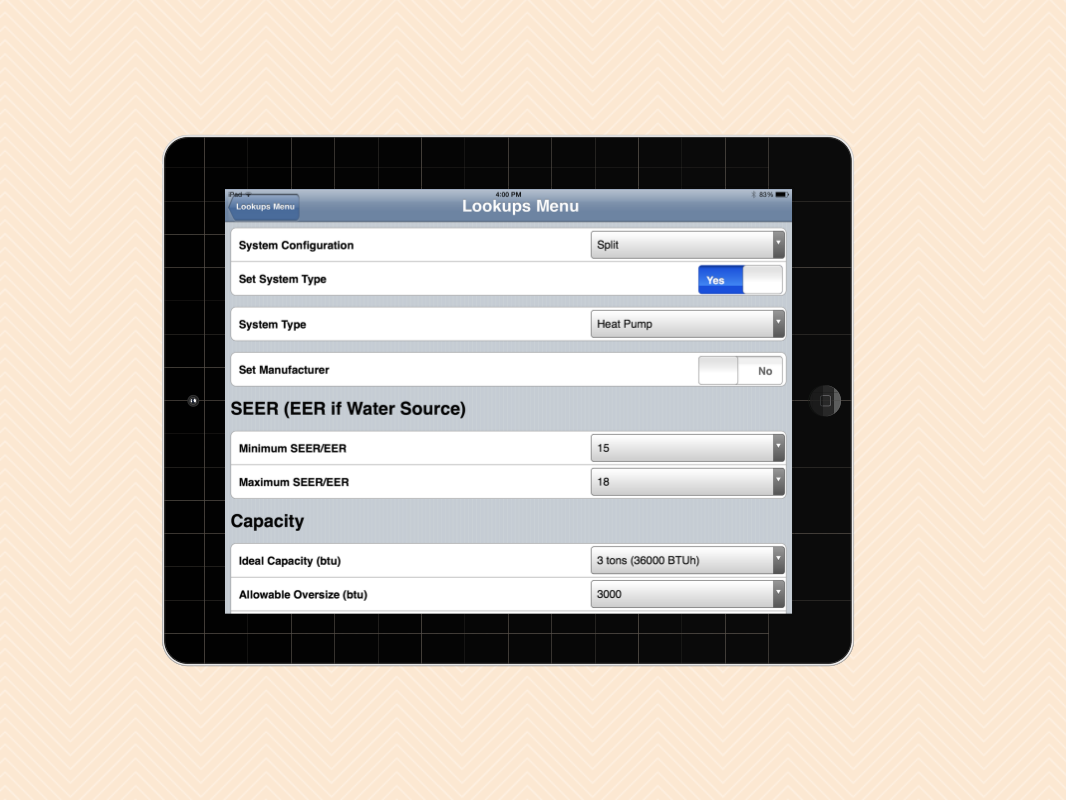
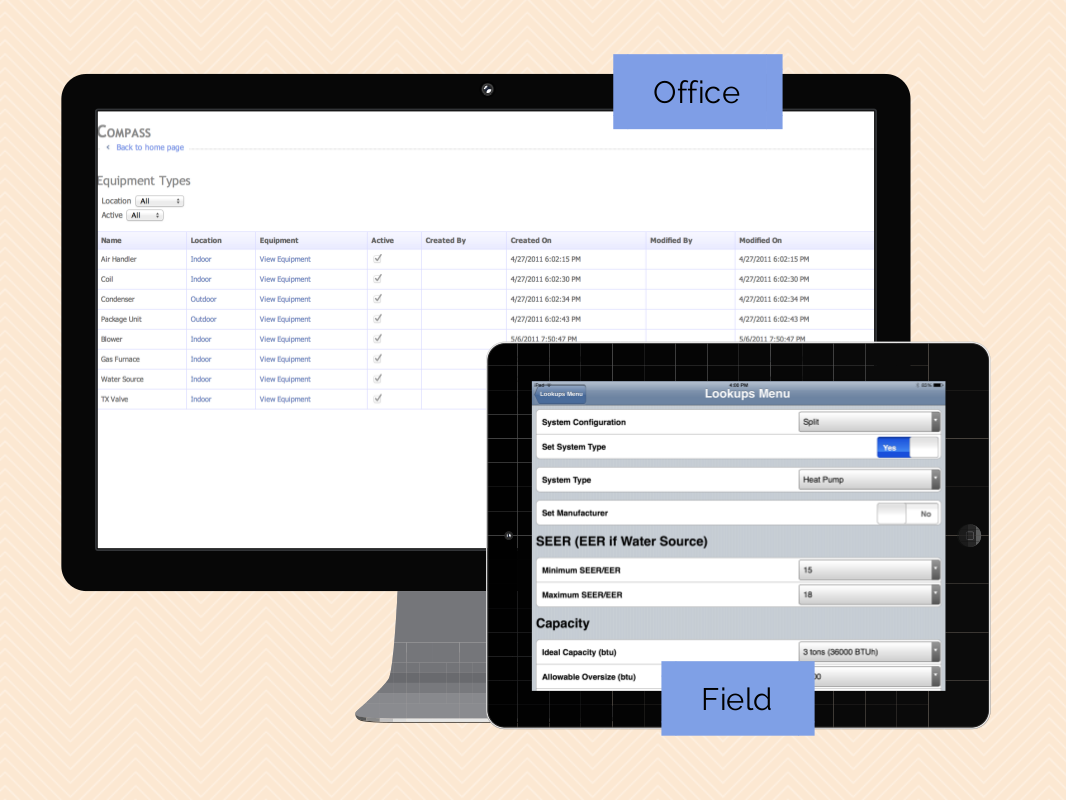
changed compass picture, contact form UI

diff --git a/templates/modern-business/contact.html b/templates/modern-business/contact.html
@@ -77,16 +77,7 @@
       <div class="row">
       
         <div class="col-lg-12">
-          <h1 class="page-header">Contact <small>We'd Love to Hear From You!</small></h1>
-          <ol class="breadcrumb">
-            <li><a href="index.html">Home</a></li>
-            <li class="active">Contact</li>
-          </ol>
-        </div>
-        
-        <div class="col-lg-12">
-          <!-- Embedded Google Map using an iframe - to select your location find it on Google maps and paste the link as the iframe src. If you want to use the Google Maps API instead then have at it! -->
-          <iframe width="100%" height="400px" frameborder="0" scrolling="no" marginheight="0" marginwidth="0" src="http://maps.google.com/maps?hl=en&amp;ie=UTF8&amp;ll=37.0625,-95.677068&amp;spn=56.506174,79.013672&amp;t=m&amp;z=4&amp;output=embed"></iframe>
+          <h1 class="page-header">Contact</h1>
         </div>
 
       </div><!-- /.row -->
@@ -94,17 +85,6 @@
       <div class="row">
 
         <div class="col-sm-8">
-          <h3>Let's Get In Touch!</h3>
-          <p>Lid est laborum dolo rumes fugats untras. Etharums ser quidem rerum facilis dolores nemis omnis fugats vitaes nemo minima rerums unsers sadips amets. Sed ut perspiciatis unde omnis iste natus error sit voluptatem accusantium doloremque laudantium, totam rem aperiam, eaque ipsa quae ab illo inventore veritatis et quasi architecto beatae vitae dicta sunt explicabo.</p>
-			<?php  
-
-                // check for a successful form post  
-                if (isset($_GET['s'])) echo "<div class=\"alert alert-success\">".$_GET['s']."</div>";  
-          
-                // check for a form error  
-                elseif (isset($_GET['e'])) echo "<div class=\"alert alert-danger\">".$_GET['e']."</div>";  
-
-			?>
             <form role="form" method="POST" action="contact-form-submission.php">
 	            <div class="row">
 	              <div class="form-group col-lg-4">
@@ -122,7 +102,7 @@
 	              <div class="clearfix"></div>
 	              <div class="form-group col-lg-12">
 	                <label for="input4">Message</label>
-	                <textarea name="contact_message" class="form-control" rows="6" id="input4"></textarea>
+	                <textarea name="contact_message" class="form-control" rows="6" id="input4" placeholder="Hi, I'm interested in hearing more about <...>. Please give me a call. Thanks."></textarea>
 	              </div>
 	              <div class="form-group col-lg-12">
 	                <input type="hidden" name="save" value="contact">
@@ -133,7 +113,7 @@
         </div>
 
         <div class="col-sm-4">
-          <h3>Modern Business</h3>
+          <h3>Blackcomb Software, LLC</h3>
           <h4>A Start Bootstrap Template</h4>
           <p>
             5555 44th Street N.<br>
@@ -142,12 +122,6 @@
           <p><i class="fa fa-phone"></i> <abbr title="Phone">P</abbr>: (555) 984-3600</p>
           <p><i class="fa fa-envelope-o"></i> <abbr title="Email">E</abbr>: <a href="mailto:feedback@startbootstrap.com">feedback@startbootstrap.com</a></p>
           <p><i class="fa fa-clock-o"></i> <abbr title="Hours">H</abbr>: Monday - Friday: 9:00 AM to 5:00 PM</p>
-          <ul class="list-unstyled list-inline list-social-icons">
-            <li class="tooltip-social facebook-link"><a href="#facebook-page" data-toggle="tooltip" data-placement="top" title="Facebook"><i class="fa fa-facebook-square fa-2x"></i></a></li>
-            <li class="tooltip-social linkedin-link"><a href="#linkedin-company-page" data-toggle="tooltip" data-placement="top" title="LinkedIn"><i class="fa fa-linkedin-square fa-2x"></i></a></li>
-            <li class="tooltip-social twitter-link"><a href="#twitter-profile" data-toggle="tooltip" data-placement="top" title="Twitter"><i class="fa fa-twitter-square fa-2x"></i></a></li>
-            <li class="tooltip-social google-plus-link"><a href="#google-plus-page" data-toggle="tooltip" data-placement="top" title="Google+"><i class="fa fa-google-plus-square fa-2x"></i></a></li>
-          </ul>
         </div>
 
       </div><!-- /.row -->
@@ -161,7 +135,7 @@
       <footer>
         <div class="row">
           <div class="col-lg-12">
-            <p>Copyright &copy; Company 2013</p>
+            <p>Copyright &copy; 2014 Blackcomb Software, LLC. All rights reserved.</p>
           </div>
         </div>
       </footer>

diff --git a/templates/modern-business/index.html b/templates/modern-business/index.html
@@ -40,7 +40,7 @@
                     <li class="dropdown">
                         <a href="#" class="dropdown-toggle" data-toggle="dropdown">Products <b class="caret"></b></a>
                         <ul class="dropdown-menu">
-                            <li><a href="services.html">Compass</a>
+                            <li><a href="portfolio-item.html">Compass</a>
                             </li>
                         </ul>
                     </li>
@@ -51,7 +51,7 @@
                             </li>
                         </ul>
                     </li>
-                    <li><a href="contact.php">Contact</a>
+                    <li><a href="contact.html">Contact</a>
                     </li>
                 </ul>
             </div>
@@ -75,7 +75,7 @@
                     <h4>Sell smarter and faster.</h4>
                     <h1>
 
-                <a class="btn btn-lg btn-primary" style="background-color:#84BE6A; border-color:#fff;" href="http://startbootstrap.com">Learn More</a>
+                <a class="btn btn-lg btn-primary" style="background-color:#84BE6A; border-color:#fff;" href="portfolio-item.html">Learn More</a>
             </h1>
                 </div>
                     
@@ -94,18 +94,15 @@
             <div class="row">
                 <div class="col-lg-4 col-md-4">
                     <h3><i class="fa fa-money"></i> Save Your Business Money</h3>
-                    <p>The 'Modern Business' website template by <a href="http://startbootstrap.com">Start Bootstrap</a> is built with <a href="http://getbootstrap.com">Bootstrap 3</a>. Make sure you're up to date with latest Bootstrap documentation!</p>
-                    <p>The 'Modern Business' website template by <a href="http://startbootstrap.com">Start Bootstrap</a> is built with <a href="http://getbootstrap.com">Bootstrap 3</a>. Make sure you're up to date with latest Bootstrap documentation!</p>
+                    <p>Reduce administration costs and the error margin associated with HVAC sales and installations with a sophisticated information pipeline.</p>
                 </div>
                 <div class="col-lg-4 col-md-4">
                     <h3><i class="fa fa-pencil"></i> Automatic Price Quoting</h3>
-                    <p>You're ready to go with this pre-built page structure, now all you need to do is add your own custom stylings! You can see some free themes over at <a href="http://bootswatch.com">Bootswatch</a>, or come up with your own using <a href="http://getbootstrap.com/customize/">the Bootstrap customizer</a>!</p>
-                    <p>The 'Modern Business' website template by <a href="http://startbootstrap.com">Start Bootstrap</a> is built with <a href="http://getbootstrap.com">Bootstrap 3</a>. Make sure you're up to date with latest Bootstrap documentation!</p>
+                    <p>Quickly and easily filter systems based on 30+ input options, and choose from the generated Best/Better/Good comparison.</p>
                 </div>
                 <div class="col-lg-4 col-md-4">
                     <h3><i class="fa fa-bar-chart-o"></i> Detailed Sales Reporting</h3>
-                    <p>This template features many common pages that you might see on a business website. Pages include: about, contact, portfolio variations, blog, pricing, FAQ, 404, services, and general multi-purpose pages.</p>
-                    <p>The 'Modern Business' website template by <a href="http://startbootstrap.com">Start Bootstrap</a> is built with <a href="http://getbootstrap.com">Bootstrap 3</a>. Make sure you're up to date with latest Bootstrap documentation!</p>
+                    <p>Track key performance indicators of sales teams in real time with easy-to-use administrative analytics dashboards.</p>
                 </div>
             </div>
             <!-- /.row -->

diff --git a/templates/modern-business/portfolio-item.html b/templates/modern-business/portfolio-item.html
@@ -103,7 +103,7 @@
         <div class="row">
 
             <div class="col-md-8">
-                <img class="img-responsive" src="img/compassFilterIpad.png">
+                <img class="img-responsive" src="img/compassFilterIpadDesktop.png">
             </div>
 
             <div class="col-md-4">
@@ -119,6 +119,10 @@
                     <li>Dynamic Best/Better/Good Option Comparison</li>
                     <li>Intuitive Mobile/Desktop Experiences</li>
                 </ul>
+            </div>
+            <div class="col-md-4" style="text-align:center;">
+                <h3></h3>
+                <a class="btn btn-primary" href="http://www.hitachi-solutions.com/"><i class="fa fa-cloud-download"></i> Download the Fact Sheet</a>
             </div>
 
         </div>
